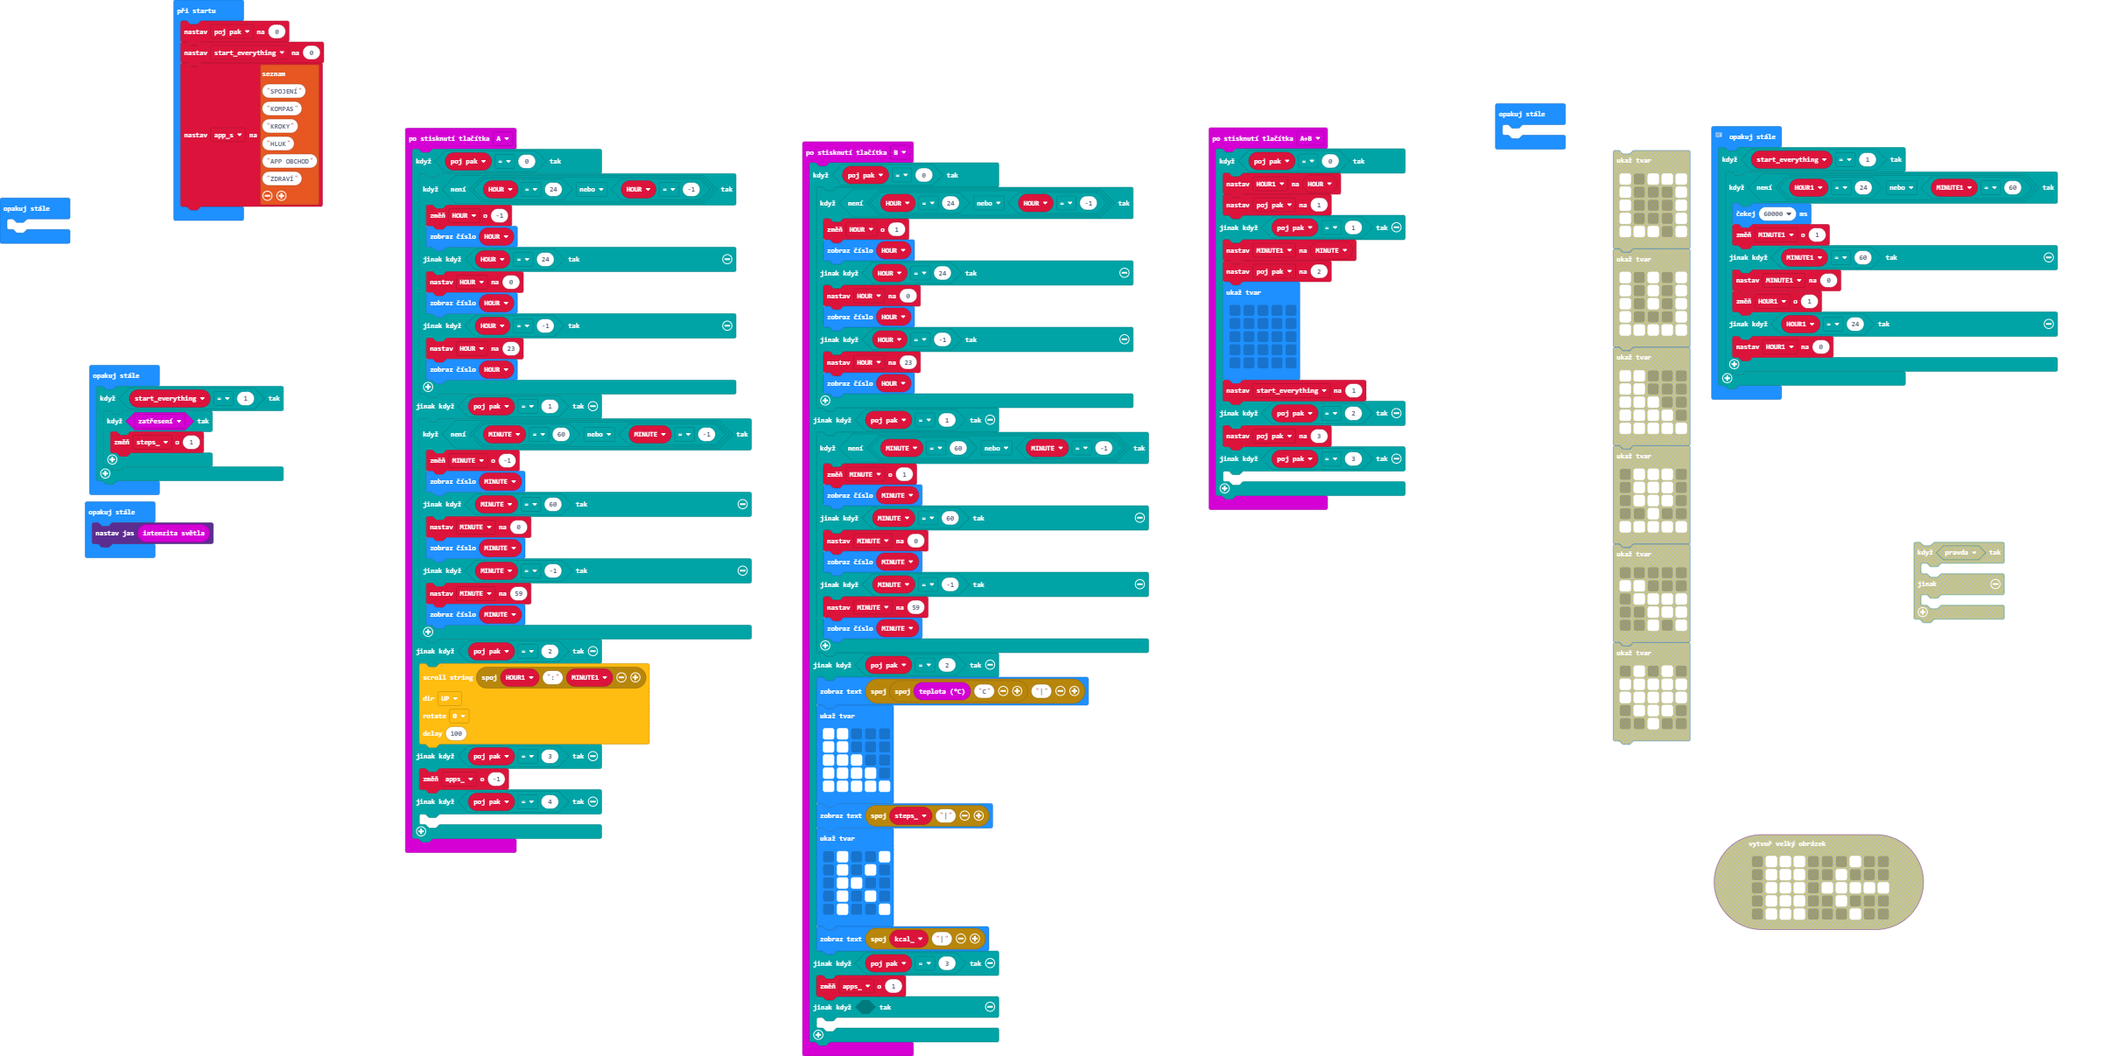
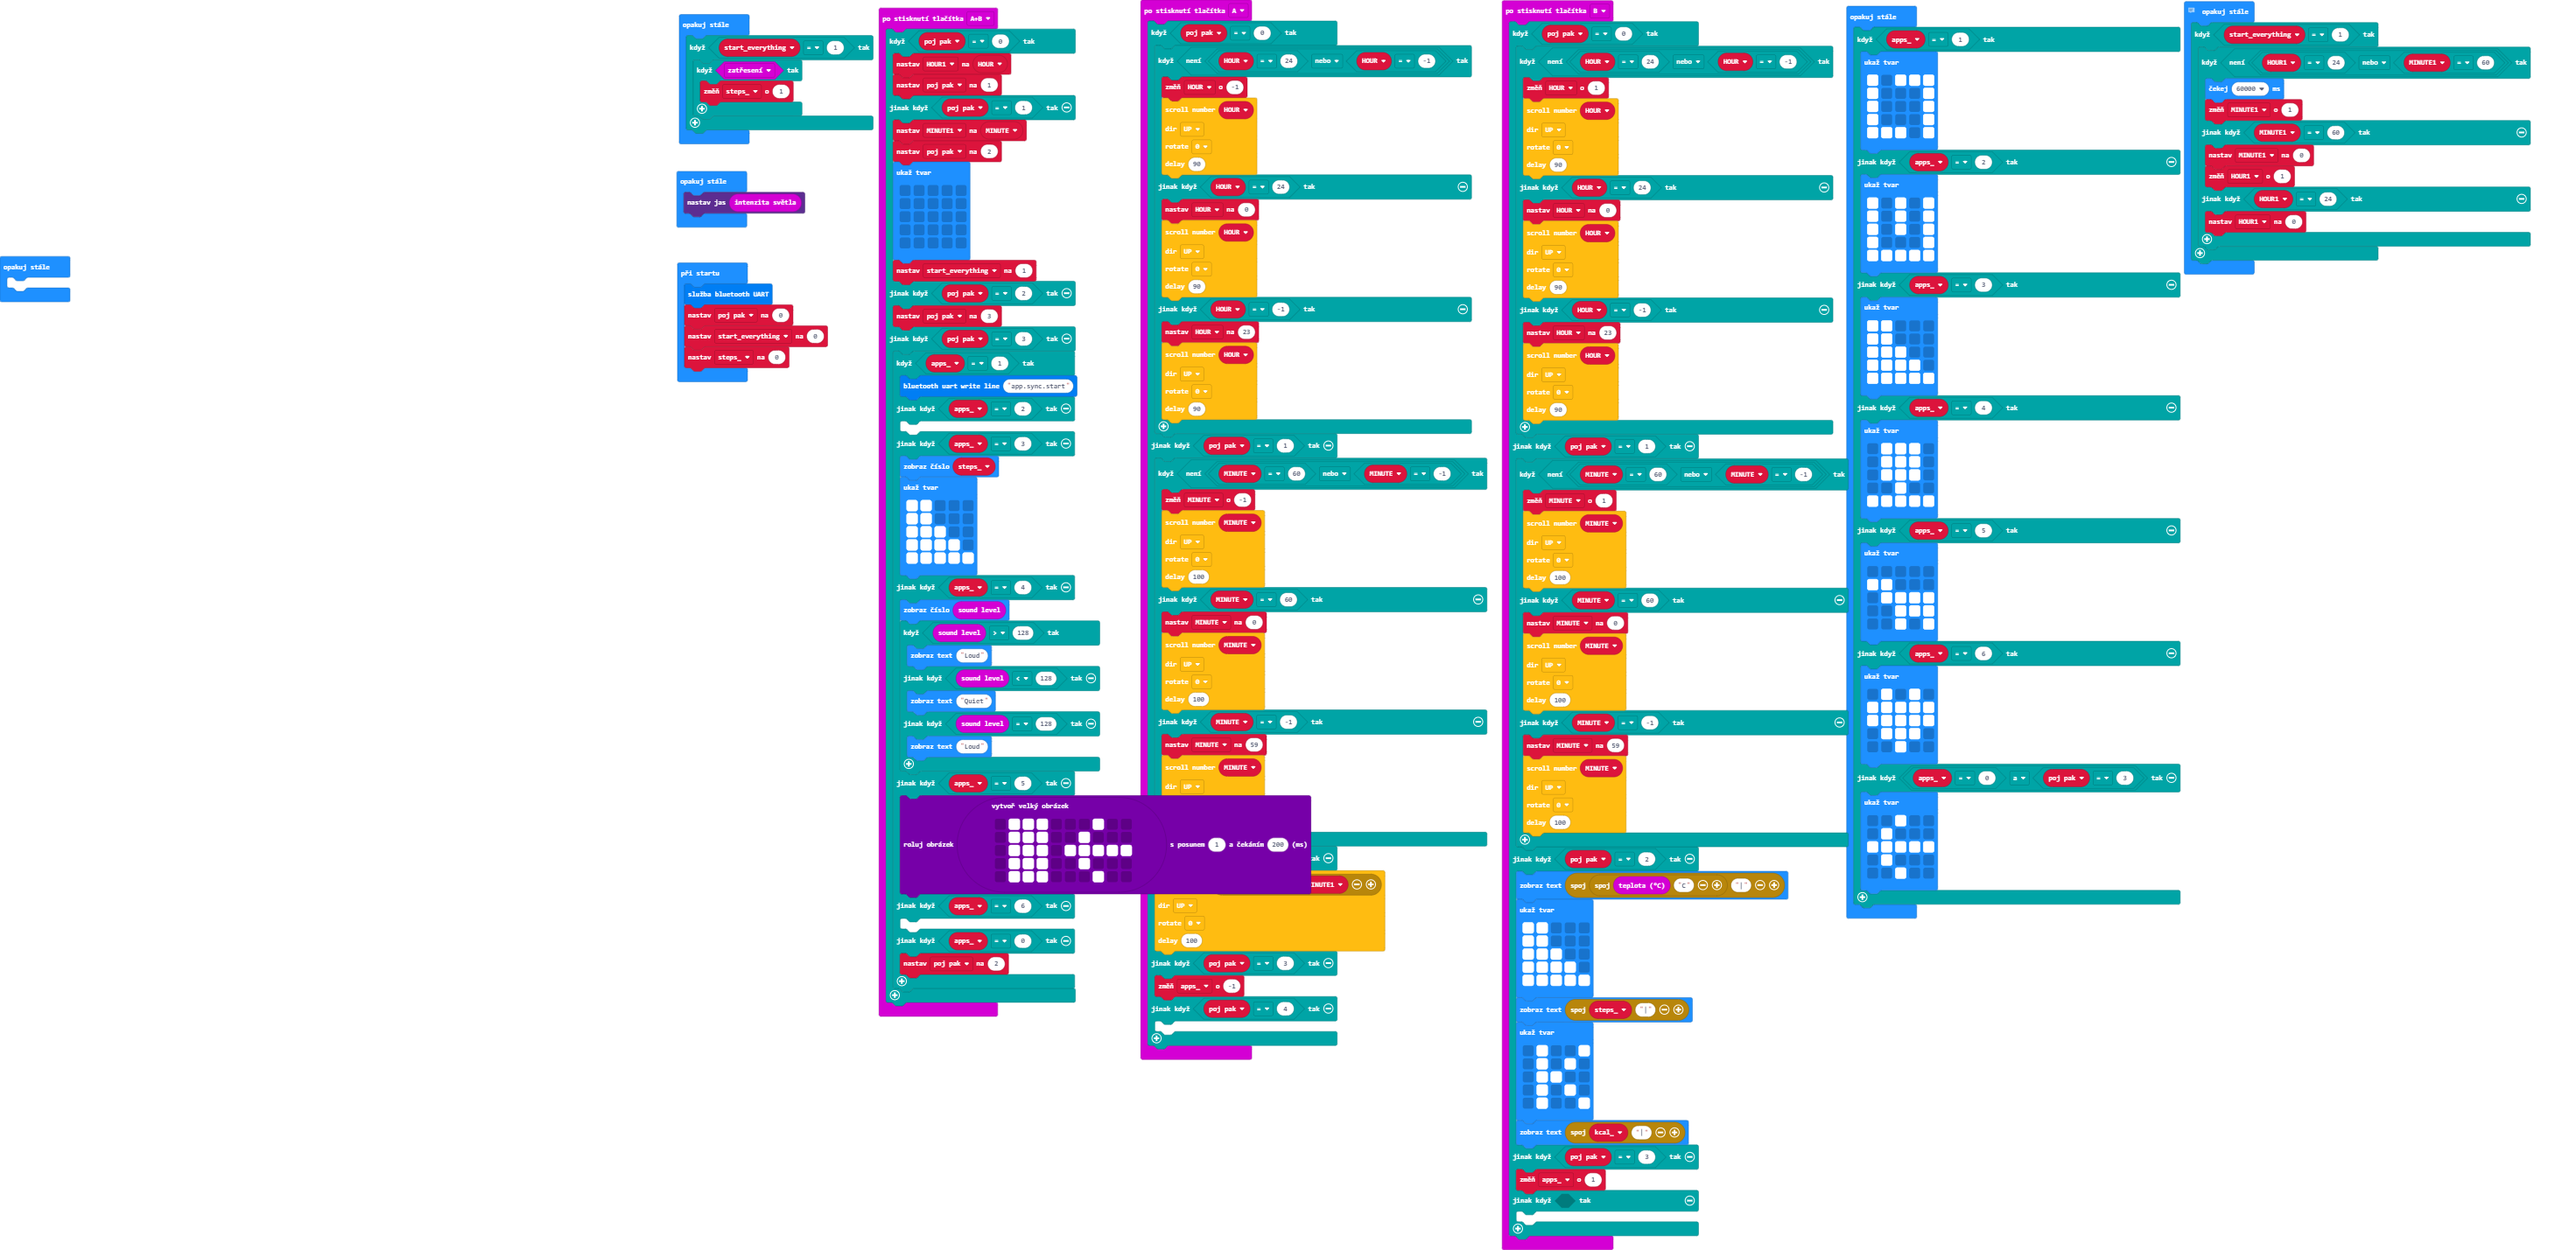
New UI for setting the clock.

diff --git a/main.ts b/main.ts
@@ -2,24 +2,54 @@ input.onButtonPressed(Button.A, function () {
     if (poj_pak == 0) {
         if (!(HOUR == 24 || HOUR == -1)) {
             HOUR += -1
-            basic.showNumber(HOUR)
+            ScrolText.showNumber(
+            HOUR,
+            SCROLL_DIR.UP,
+            SCROLL_ROTATE.SR_0,
+            90
+            )
         } else if (HOUR == 24) {
             HOUR = 0
-            basic.showNumber(HOUR)
+            ScrolText.showNumber(
+            HOUR,
+            SCROLL_DIR.UP,
+            SCROLL_ROTATE.SR_0,
+            90
+            )
         } else if (HOUR == -1) {
             HOUR = 23
-            basic.showNumber(HOUR)
+            ScrolText.showNumber(
+            HOUR,
+            SCROLL_DIR.UP,
+            SCROLL_ROTATE.SR_0,
+            90
+            )
         }
     } else if (poj_pak == 1) {
         if (!(MINUTE == 60 || MINUTE == -1)) {
             MINUTE += -1
-            basic.showNumber(MINUTE)
+            ScrolText.showNumber(
+            MINUTE,
+            SCROLL_DIR.UP,
+            SCROLL_ROTATE.SR_0,
+            100
+            )
         } else if (MINUTE == 60) {
             MINUTE = 0
-            basic.showNumber(MINUTE)
+            ScrolText.showNumber(
+            MINUTE,
+            SCROLL_DIR.UP,
+            SCROLL_ROTATE.SR_0,
+            100
+            )
         } else if (MINUTE == -1) {
             MINUTE = 59
-            basic.showNumber(MINUTE)
+            ScrolText.showNumber(
+            MINUTE,
+            SCROLL_DIR.UP,
+            SCROLL_ROTATE.SR_0,
+            100
+            )
         }
     } else if (poj_pak == 2) {
         ScrolText.showString(
@@ -52,31 +82,95 @@ input.onButtonPressed(Button.AB, function () {
     } else if (poj_pak == 2) {
         poj_pak = 3
     } else if (poj_pak == 3) {
-    	
+        if (apps_ == 1) {
+            bluetooth.uartWriteLine("app.sync.start")
+        } else if (apps_ == 2) {
+        	
+        } else if (apps_ == 3) {
+            basic.showNumber(steps_)
+            basic.showLeds(`
+                # # . . .
+                # # . . .
+                # # # . .
+                # # # # .
+                # # # # #
+                `)
+        } else if (apps_ == 4) {
+            basic.showNumber(input.soundLevel())
+            if (input.soundLevel() > 128) {
+                basic.showString("Loud")
+            } else if (input.soundLevel() < 128) {
+                basic.showString("Quiet")
+            } else if (input.soundLevel() == 128) {
+                basic.showString("Loud")
+            }
+        } else if (apps_ == 5) {
+            images.createBigImage(`
+                . # # # . . . # . .
+                . # # # . . # . . .
+                . # # # . # # # # #
+                . # # # . . # . . .
+                . # # # . . . # . .
+                `).scrollImage(1, 200)
+        } else if (apps_ == 6) {
+        	
+        } else if (apps_ == 0) {
+            poj_pak = 2
+        }
     }
 })
 input.onButtonPressed(Button.B, function () {
     if (poj_pak == 0) {
         if (!(HOUR == 24 || HOUR == -1)) {
             HOUR += 1
-            basic.showNumber(HOUR)
+            ScrolText.showNumber(
+            HOUR,
+            SCROLL_DIR.UP,
+            SCROLL_ROTATE.SR_0,
+            90
+            )
         } else if (HOUR == 24) {
             HOUR = 0
-            basic.showNumber(HOUR)
+            ScrolText.showNumber(
+            HOUR,
+            SCROLL_DIR.UP,
+            SCROLL_ROTATE.SR_0,
+            90
+            )
         } else if (HOUR == -1) {
             HOUR = 23
-            basic.showNumber(HOUR)
+            ScrolText.showNumber(
+            HOUR,
+            SCROLL_DIR.UP,
+            SCROLL_ROTATE.SR_0,
+            90
+            )
         }
     } else if (poj_pak == 1) {
         if (!(MINUTE == 60 || MINUTE == -1)) {
             MINUTE += 1
-            basic.showNumber(MINUTE)
+            ScrolText.showNumber(
+            MINUTE,
+            SCROLL_DIR.UP,
+            SCROLL_ROTATE.SR_0,
+            100
+            )
         } else if (MINUTE == 60) {
             MINUTE = 0
-            basic.showNumber(MINUTE)
+            ScrolText.showNumber(
+            MINUTE,
+            SCROLL_DIR.UP,
+            SCROLL_ROTATE.SR_0,
+            100
+            )
         } else if (MINUTE == -1) {
             MINUTE = 59
-            basic.showNumber(MINUTE)
+            ScrolText.showNumber(
+            MINUTE,
+            SCROLL_DIR.UP,
+            SCROLL_ROTATE.SR_0,
+            100
+            )
         }
     } else if (poj_pak == 2) {
         let kcal_ = 0
@@ -103,22 +197,83 @@ input.onButtonPressed(Button.B, function () {
     	
     }
 })
-let steps_ = 0
 let apps_ = 0
 let MINUTE1 = 0
 let HOUR1 = 0
 let MINUTE = 0
 let HOUR = 0
+let steps_ = 0
 let start_everything = 0
 let poj_pak = 0
+bluetooth.startUartService()
 poj_pak = 0
 start_everything = 0
-let app_s = ["SPOJENÍ", "KOMPAS", "KROKY", "HLUK", "APP OBCHOD", "ZDRAVÍ"]
+steps_ = 0
 basic.forever(function () {
-	
+    if (start_everything == 1) {
+        if (input.isGesture(Gesture.Shake)) {
+            steps_ += 1
+        }
+    }
 })
 basic.forever(function () {
-	
+    if (apps_ == 1) {
+        basic.showLeds(`
+            # . # # #
+            # . . . #
+            # . . . #
+            # . . . #
+            # # # . #
+            `)
+    } else if (apps_ == 2) {
+        basic.showLeds(`
+            # . # . #
+            # . # . #
+            # . # . #
+            # . . . #
+            # # # # #
+            `)
+    } else if (apps_ == 3) {
+        basic.showLeds(`
+            # # . . .
+            # # . . .
+            # # # . .
+            # # # # .
+            # # # # #
+            `)
+    } else if (apps_ == 4) {
+        basic.showLeds(`
+            . # # # .
+            . # # # .
+            . # # # .
+            . . # . .
+            # # # # #
+            `)
+    } else if (apps_ == 5) {
+        basic.showLeds(`
+            . . . . .
+            # # . . .
+            . # # # #
+            . . # # #
+            . . # . #
+            `)
+    } else if (apps_ == 6) {
+        basic.showLeds(`
+            . # . # .
+            # # # # #
+            # # # # #
+            . # # # .
+            . . # . .
+            `)
+    } else if (apps_ == 0 && poj_pak == 3) {
+        basic.showLeds(`
+            . . # . .
+            . # . . .
+            # # # # #
+            . # . . .
+            . . # . .
+            `)
+    }
 })
 // Hodiny
 basic.forever(function () {
@@ -135,12 +290,8 @@ basic.forever(function () {
     }
 })
 basic.forever(function () {
-    if (start_everything == 1) {
-        if (input.isGesture(Gesture.Shake)) {
-            steps_ += 1
-        }
-    }
+    led.setBrightness(input.lightLevel())
 })
 basic.forever(function () {
-    led.setBrightness(input.lightLevel())
+	
 })
